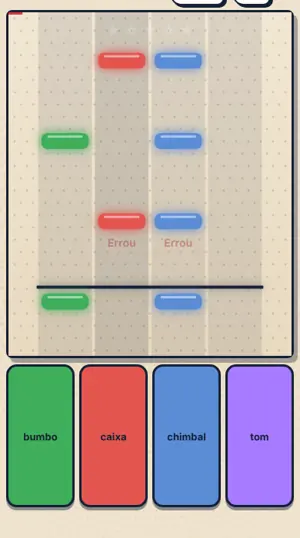
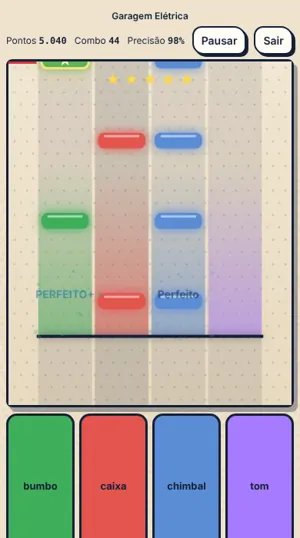
Área dos alunos v316: prévia do Beat Hero mais bonita
Claude-Session: https://claude.ai/code/session_017Ekti21ghcdFutacmQGMnk

diff --git a/js/previas.js b/js/previas.js
@@ -8,7 +8,7 @@ const PREVIAS = {
     sobre: 'Toque no tempo certo em músicas e fases (Ritmo/Melodia, Piano Tiles, Setinhas e Figuras), com pontos, combo, XP e ranking.',
     faz: ['escolha a música e o andamento', 'toque nas peças quando as notas chegarem na linha', 'veja seus pontos, combo e precisão na hora'],
     desenvolve: ['coordenação motora e precisão de tempo', 'atenção e tempo de reação', 'percepção de pulso e andamento'],
-    imgs: [['ritmo-1', 'escolha a música'], ['ritmo-3', 'as notas descem: toque no tempo']] },
+    imgs: [['ritmo-1', 'escolha a música'], ['ritmo-2', 'as notas descem: toque no tempo'], ['ritmo-3', 'perfeito! combo e estrelas subindo']] },
   paulta: { titulo: 'pauLta', frase: 'leitura musical por mundos e fases',
     sobre: 'Leitura musical: escolha um mundo (Bateria, Clave de Sol, Clave de Fá e o Duelo das Claves), cumpra as fases e ganhe pontos com o Paul.',
     faz: ['escolha um mundo e siga o caminho das fases', 'leia a nota ou a peça na pauta e responda', 'junte pontos e destrave as próximas fases'],
@@ -41,7 +41,7 @@ export function previa(k) {
   const p = PREVIAS[k]; if (!p) return null;
   return h('section', { class: 'pv', 'aria-label': `Prévia: ${p.titulo}` },
     h('p', { class: 'pv-tag' }, 'dá uma olhada por dentro'),
-    h('div', { class: 'pv-gal', role: 'group', 'aria-label': 'Telas do jogo' }, ...p.imgs.map(([f, leg]) => h('figure', { class: 'pv-fig' }, h('img', { src: `${IMG}${f}.webp`, alt: `${p.titulo}: ${leg}`, loading: 'lazy', draggable: 'false' }), h('figcaption', {}, leg)))),
+    h('div', { class: 'pv-gal', role: 'group', 'aria-label': 'Telas do jogo' }, ...p.imgs.map(([f, leg]) => h('figure', { class: 'pv-fig' }, h('img', { src: `${IMG}${f}.webp`, alt: `${p.titulo}: ${leg}`, draggable: 'false' }), h('figcaption', {}, leg)))),
     h('div', { class: 'card pad pv-txt' }, h('h2', { class: 'tag' }, p.titulo), h('p', {}, p.sobre),
       h('b', {}, 'o que você faz'), h('ul', {}, ...p.faz.map((x) => h('li', {}, x))),
       h('b', {}, 'o que desenvolve'), h('ul', {}, ...p.desenvolve.map((x) => h('li', {}, x)))));

diff --git a/sw.js b/sw.js
@@ -1,5 +1,5 @@
 // Service worker: cacheia só o "casco" do app (código + marca). Nenhum dado do usuário passa por aqui.
-const VERSION = 'beaterista-v315';
+const VERSION = 'beaterista-v316';
 const SHELL = [
   'js/paulta/livre.js', 'js/dicas-aluno.js',
   'js/paulta/mapa.js',
